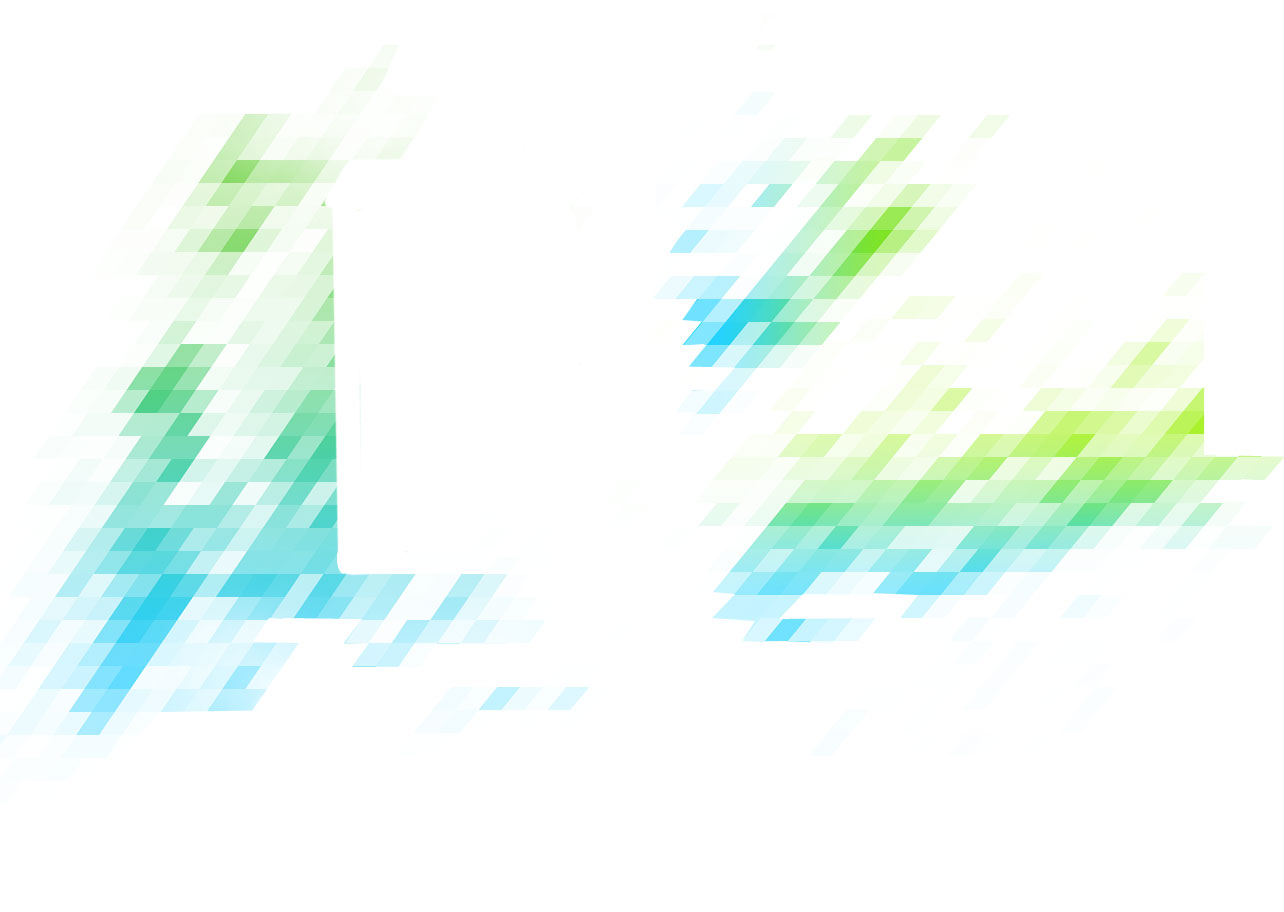
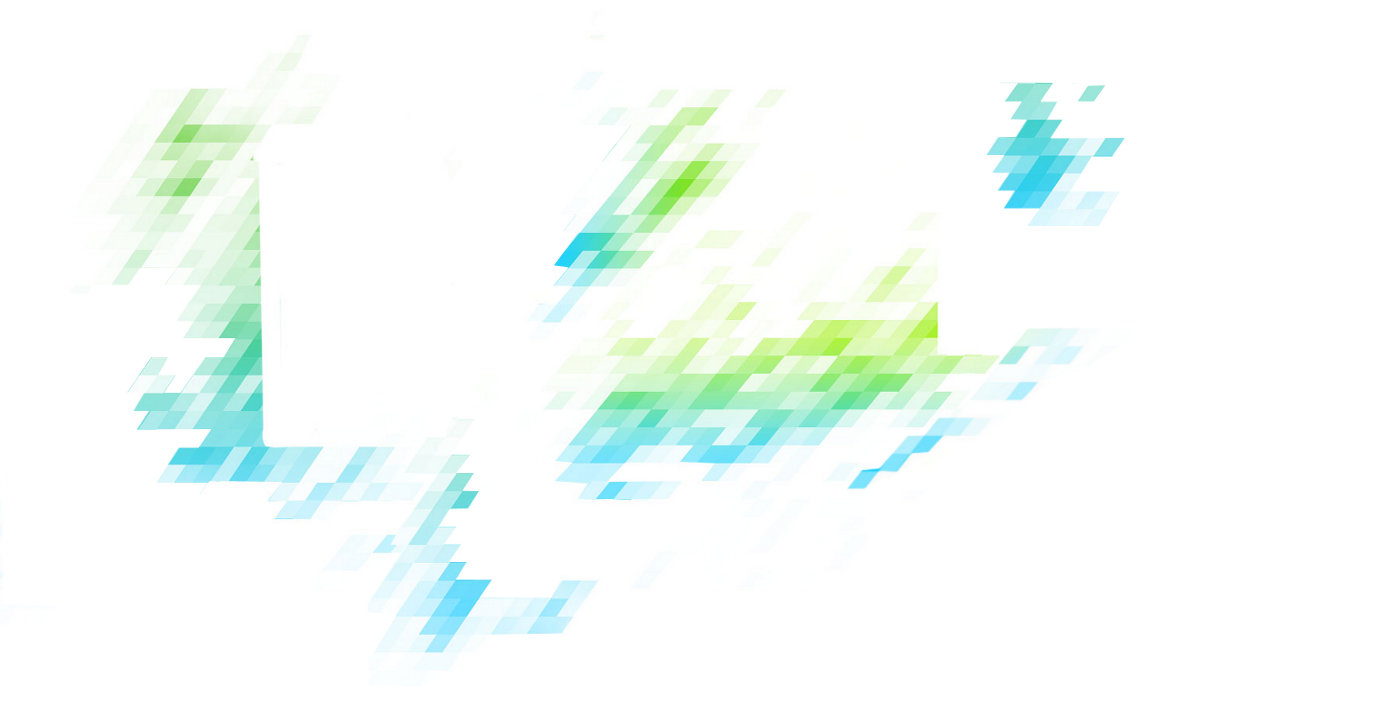
Fix the animations and the pixels.

Changed region(s): [[0.0, 0.093, 1.0, 0.9296], [0.4361, 0.7437, 0.4673, 0.7746], [0.3738, 0.7437, 0.405, 0.7746]]

diff --git a/media/sass/screen.sass b/media/sass/screen.sass
@@ -5,7 +5,7 @@ body
   :background-image= !url_pixel_bg 
   :background-repeat no-repeat 
   :background-attachment scroll 
-  :background-position -100px -50px
+  :background-position -30px 70px
   :font-size 1em
   :color #555
   :line-height 1.4
@@ -84,13 +84,16 @@ nav
 
 header
   >h1
-    :margin 45px auto 40px
-    :line-height 1
+    :margin 45px 0px 40px
+    :line-height 1.1
     :font-size 1.6em
     //:font-weight bold
     :color #006c94
     :letter-spacing -0.03em
     :font-family= !font_stack_trebuchet
+    :width 30%
+    :height 88px
+    :overflow hidden
     ul 
       li
         span

diff --git a/templates/base.html b/templates/base.html
@@ -41,7 +41,7 @@
               <li>Organizational Learning:</li>
               <li><span>Impacting Business.</span></li>
               <li><span id="light_color">Changing The Game.</span></li>
-              <li>Organizational Learning: <span>Impacting Business. </span><span class="light_color">Changing The Game.</span> </li>
+              <li>Organizational Learning: <span>Impacting Business.</span> <span id="light_color">Changing The Game.</span></li>
             </ul>
           </h1>
         </header>
@@ -50,4 +50,5 @@
       {% block tag_footer %}{% endblock %}
     </div>
 {% endblock %}
+
 

diff --git a/media/script/index.js b/media/script/index.js
@@ -29,7 +29,7 @@
           speed: 'slow',
           timeout: 2000,
           type: 'sequence',
-          containerheight: '77px'
+          containerheight: '88px'
       });
       jQuery('.toggle_view a[href="advisory_board"]').toggle(function(){
             jQuery('#advisory_board').css('display', 'none');
